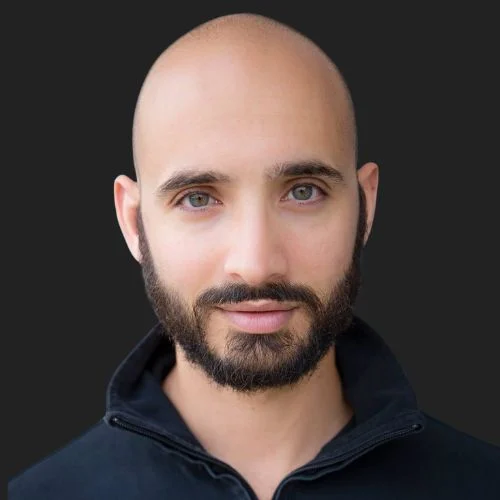
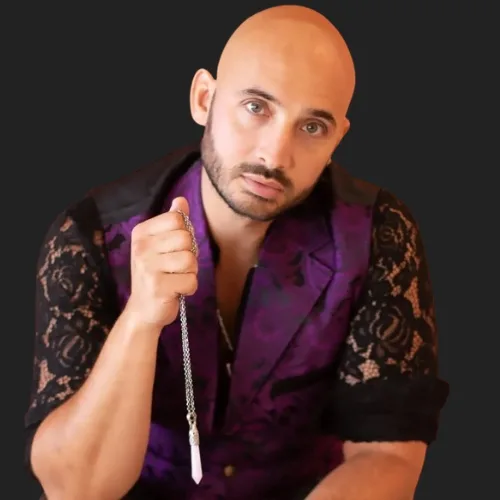
love-immersion: october-2026 Yossef Sagi guide photo update

diff --git a/love-immersion/october-2026/index.html b/love-immersion/october-2026/index.html
@@ -464,7 +464,7 @@
           <p class="text-white/55 text-sm leading-relaxed">Deep, Focused Transformation and Radical Clarity</p>
         </div>
         <div class="flex flex-col items-center text-center w-56">
-          <img src="/images/facilitators/yossef-sagi.webp" alt="Yossef Sagi" loading="lazy" class="w-36 h-36 rounded-full object-cover mb-5" style="box-shadow: 0 10px 30px rgba(0,0,0,0.45);">
+          <img src="/images/facilitators/yossef-sagi.webp?v=2" alt="Yossef Sagi" loading="lazy" class="w-36 h-36 rounded-full object-cover mb-5" style="box-shadow: 0 10px 30px rgba(0,0,0,0.45);">
           <h3 class="font-heading text-xl text-white mb-1.5">Yossef Sagi</h3>
           <p class="text-gold text-sm font-medium mb-1.5 leading-snug">Master Coach and Intimacy Guide</p>
           <p class="text-white/55 text-sm leading-relaxed">Deep Connection, Trust, and Embodied Partnership</p>
